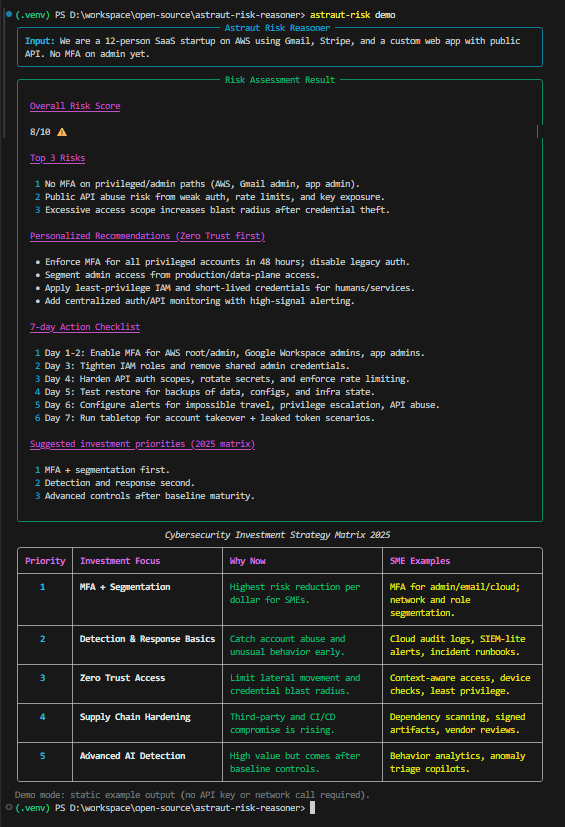
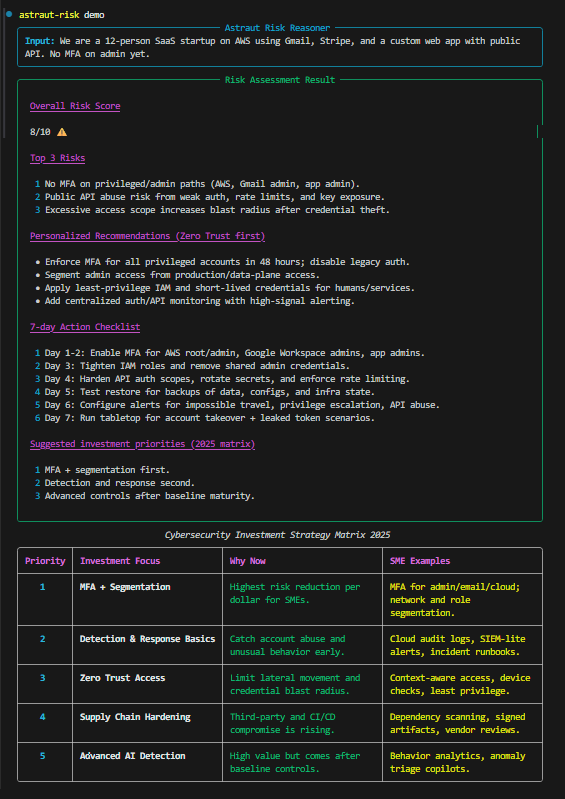
Polish README demo section and screenshot

Changed region(s): [[0.0301, 0.0, 0.9628, 0.9912]]

diff --git a/README.md b/README.md
@@ -22,6 +22,8 @@ astraut-risk demo
 Example output:
 
 ![Demo](docs/demo.png)
+Example output from `astraut-risk demo`.  
+Runs instantly without API keys or network calls.
 
 ## Quick Install (GitHub)
 
